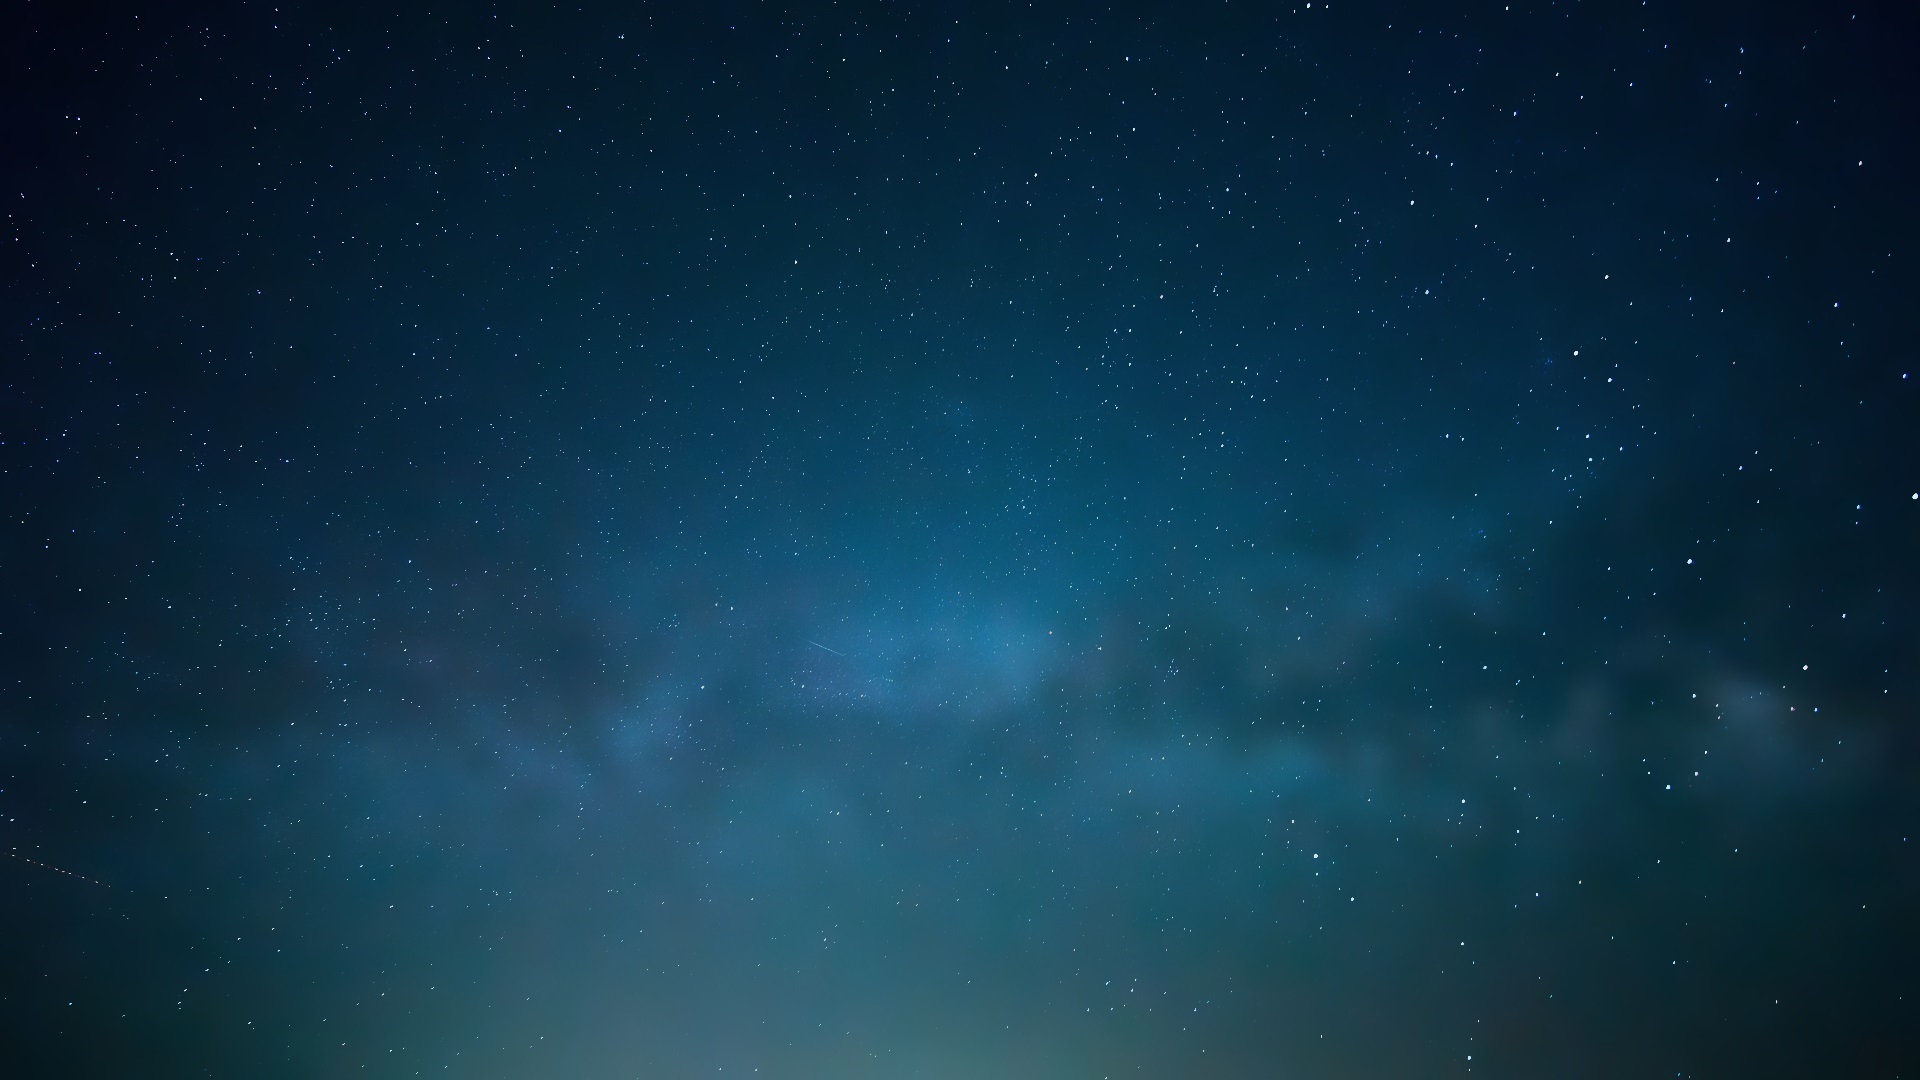
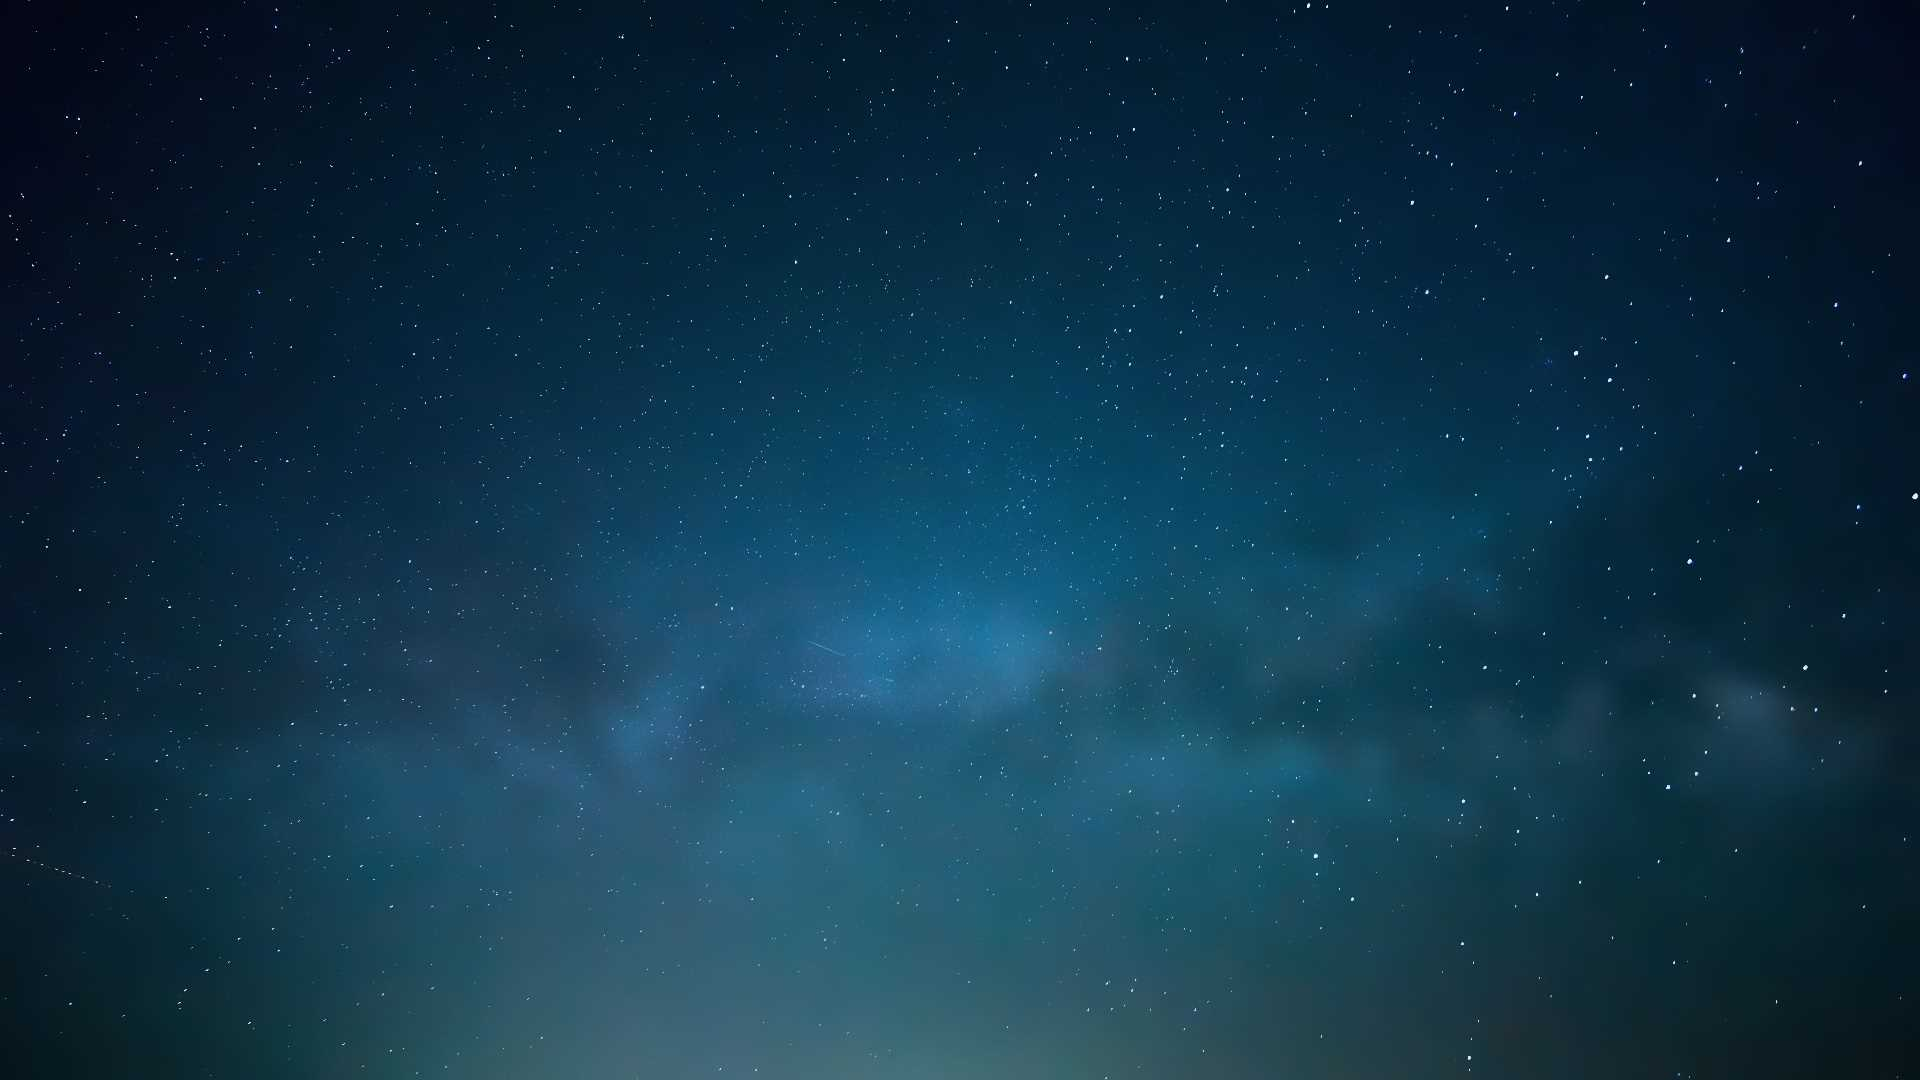
reduced bg img size and made couple mobile fixes

diff --git a/src/styles/index.css b/src/styles/index.css
@@ -143,15 +143,13 @@ abbr, acronym {
   font-weight: normal;
   font-style: normal; }
 body {
-  font-family: "Open Sans", sans-serif; }
+  font-family: "Open Sans", sans-serif;
+  background: url(../assets/sky.jpg) no-repeat center center fixed; }
   body::-webkit-scrollbar {
     width: 0; }
 
 html, #root, .App, .particles {
   height: 100%; }
-
-.App {
-  background: url(../assets/sky.jpg) no-repeat center center fixed; }
 
 canvas {
   position: relative;

diff --git a/src/styles/index.scss b/src/styles/index.scss
@@ -7,21 +7,18 @@
   src: url('../assets/Allegro.ttf') format('truetype');
   font-weight: normal;
   font-style: normal;
+
 }
 
 body {
   font-family: "Open Sans", sans-serif;
+  background: url(../assets/sky.jpg) no-repeat center center fixed;
+
   &::-webkit-scrollbar{width: 0}
-
-
 }
 
 html, #root, .App, .particles {
   height: 100%;
-}
-
-.App {
-  background: url(../assets/sky.jpg) no-repeat center center fixed;
 }
 
 canvas {

diff --git a/src/containers/about-me/styles/mobile-styles.scss b/src/containers/about-me/styles/mobile-styles.scss
@@ -2,13 +2,15 @@
 
 @include screen('mobile'){
   .section__aboutMe {
-    .container {
-      img {
-        width: 100px;
-        height: 100px;
-
+    .aboutMe {
+      .container {
+        img {
+          width: 100px;
+          height: 100px;
+        }
         h2 {
           font-size: 1.5em;
+          text-align: center;
         }
 
         .title {

diff --git a/src/containers/about-me/about-me.js b/src/containers/about-me/about-me.js
@@ -2,6 +2,8 @@ import React, { Component } from "react";
 import me from "../../assets/me.jpg";
 import TwitchIframe from "./twitch-iframe";
 import "./styles/styles.css";
+import "./styles/mobile-styles.css";
+
 
 class AboutMe extends Component {
   state = {
